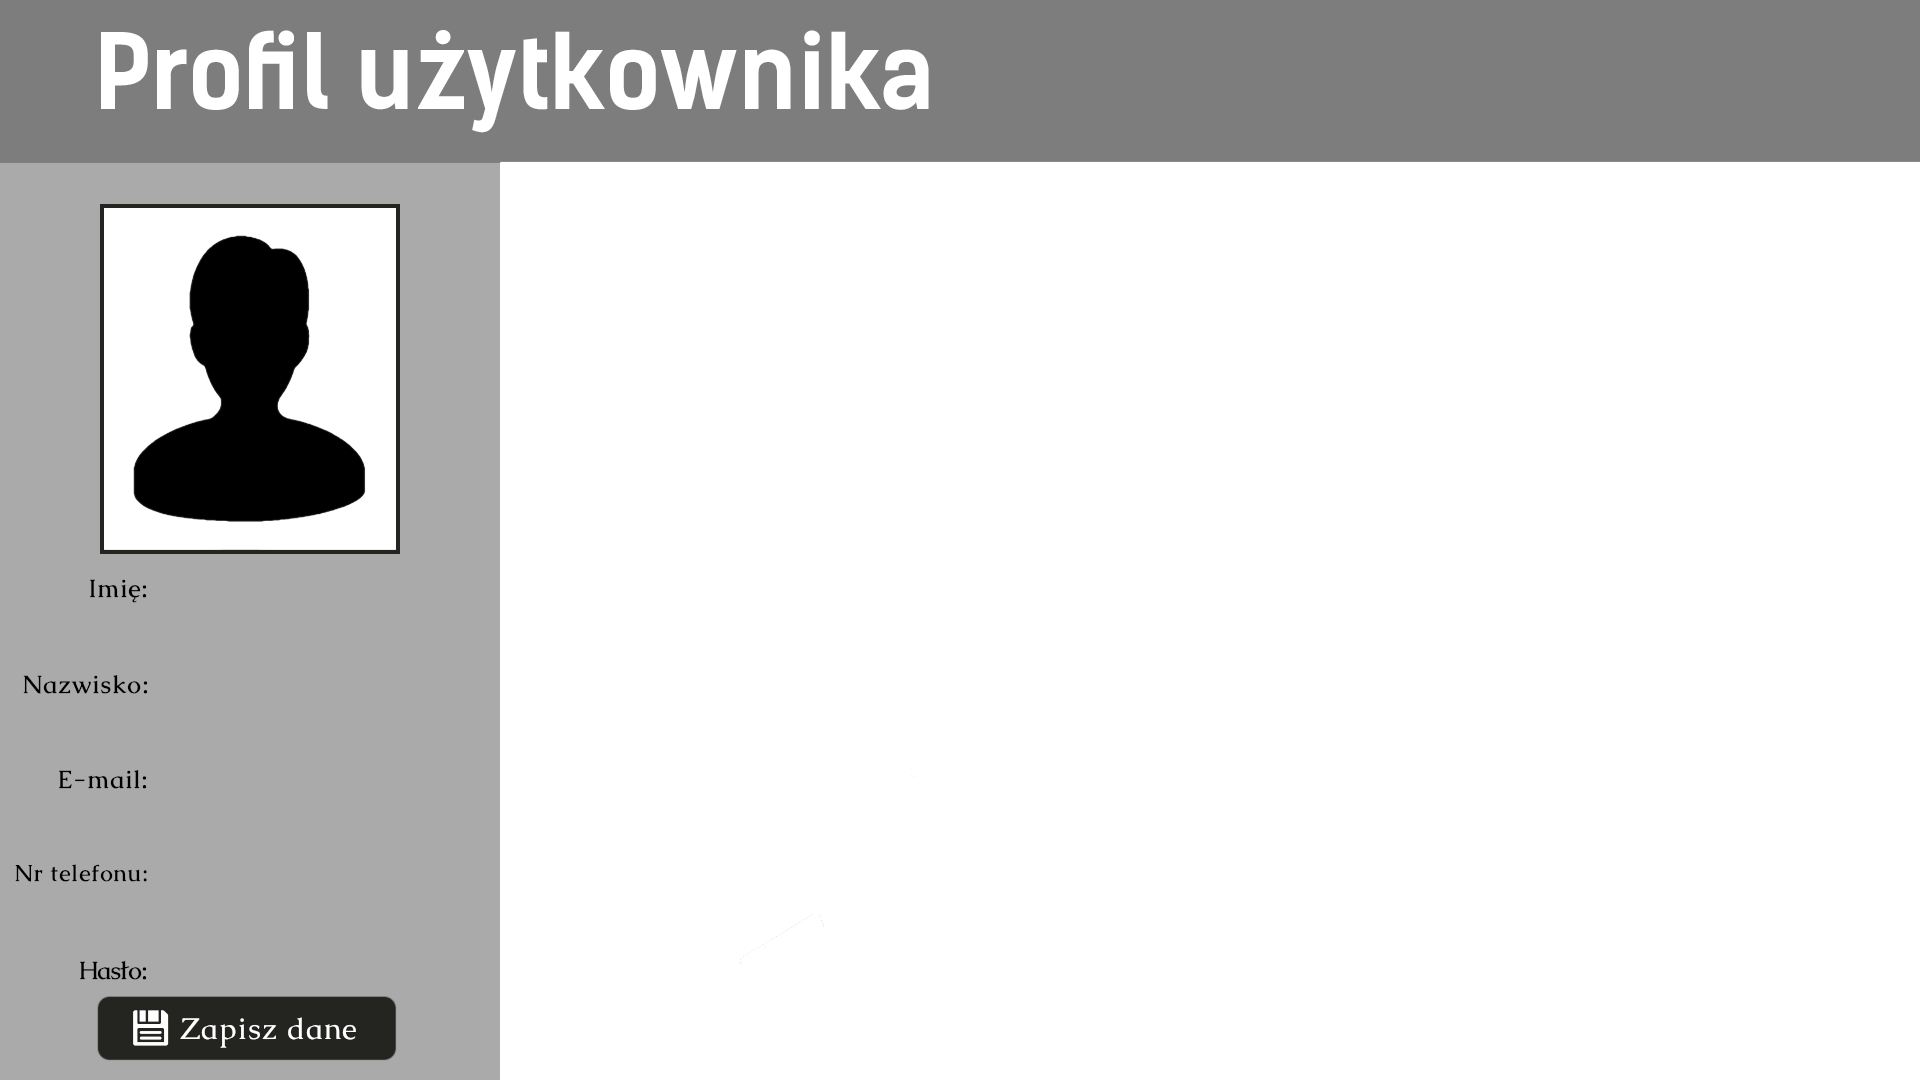
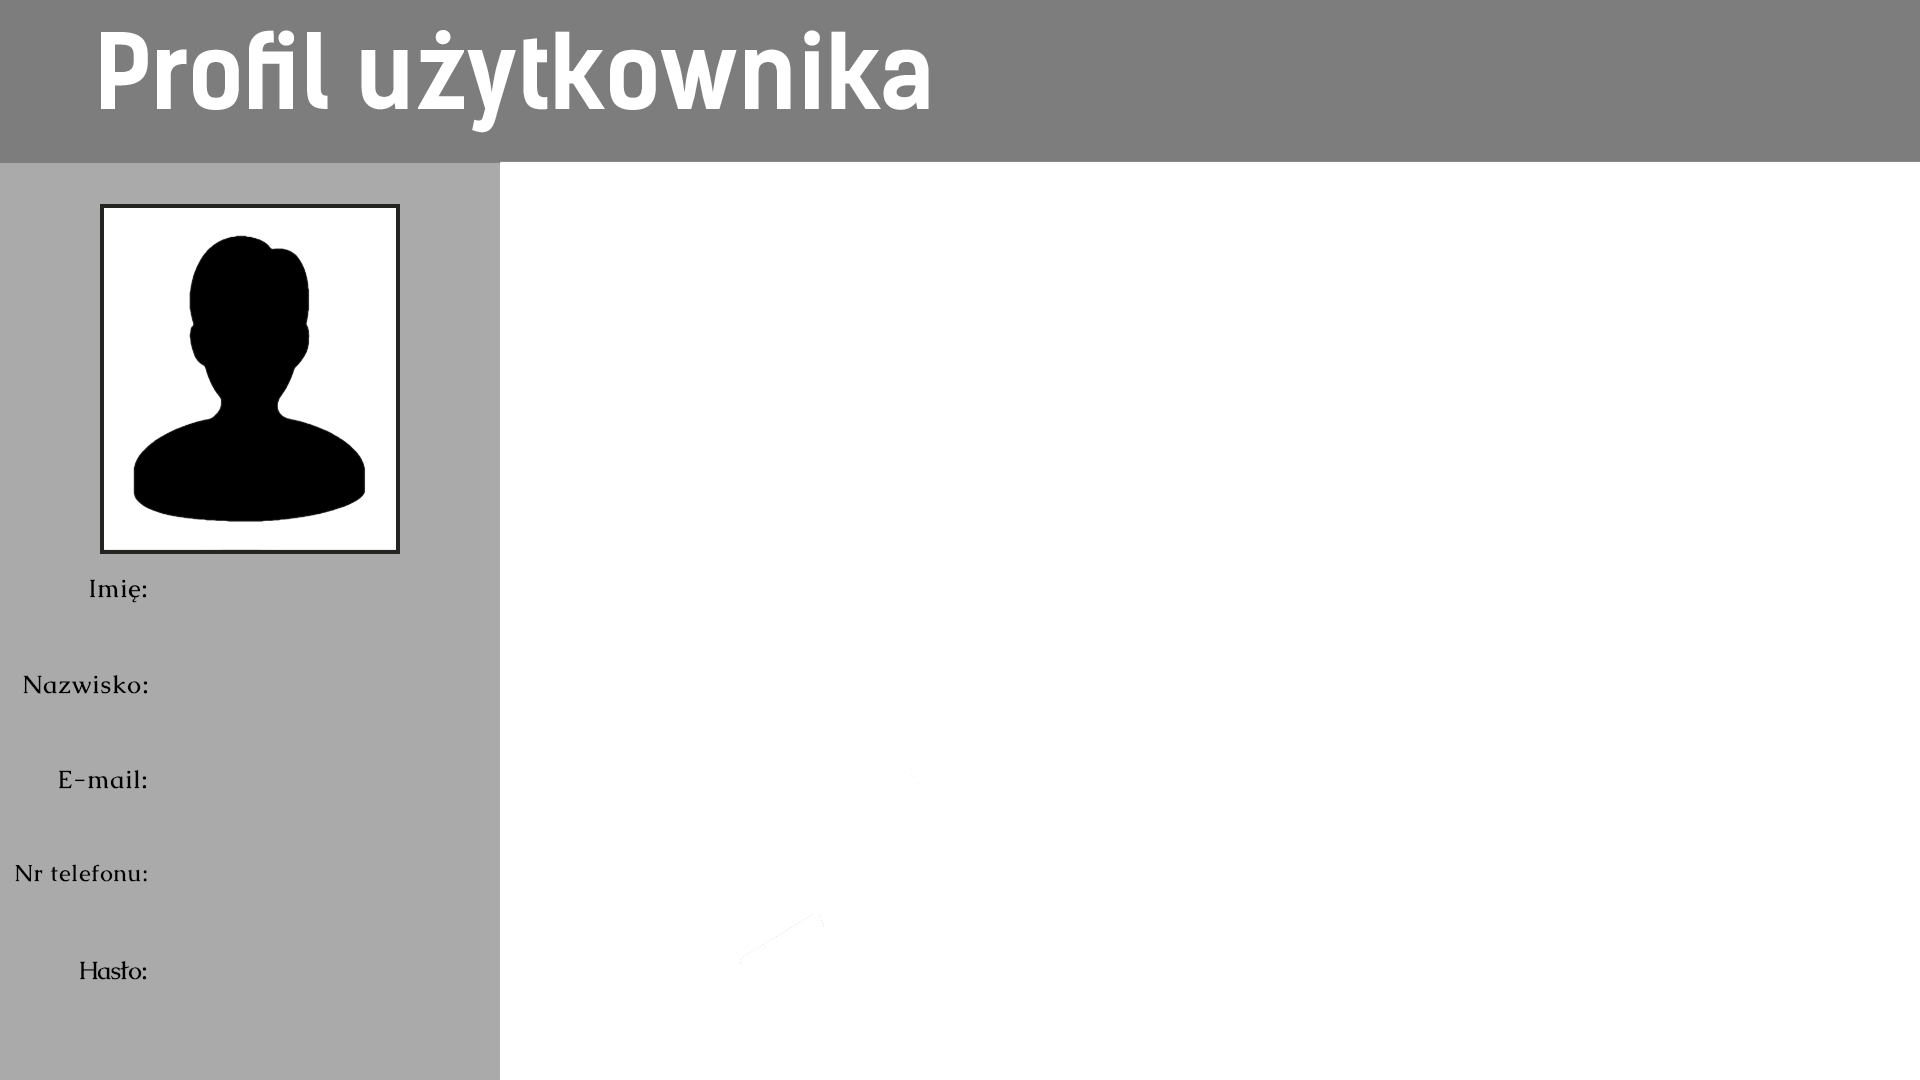
Update przycisków

Changed region(s): [[0.0312, 0.9167, 0.2188, 1.0]]

diff --git a/src/com/okno/OknoUzytkownika.java b/src/com/okno/OknoUzytkownika.java
@@ -43,7 +43,7 @@ import java.util.regex.Pattern;
 public class OknoUzytkownika extends JPanel implements ActionListener, MouseListener
 {
 
-    private JLabel bEdytujDane, bWyloguj, bTwojeRezerwacje, bDostepneFilmy, bZapiszDane,bDodajSeans,bDodajFilm;;
+    private JLabel bEdytujDane, bWyloguj, bTwojeRezerwacje, bDostepneFilmy, bZapiszDane, bPowrotMini, bDodajSeans, bDodajFilm;
     private JLabel tNazwaUzytkownika, tEmailUzytkownika, tTelefonUzytkownika, tPowitanie, tNajblizszeSeanse, tBledneDane;
     private JTextField fNoweImie, fNoweNazwisko, fNowyEmailUzytkownika, fNowyTelefonUzytkownika;
     private JPasswordField fNoweHaslo;
@@ -171,11 +171,18 @@ public class OknoUzytkownika extends JPanel implements ActionListener, MouseList
         add(fNoweHaslo);
 
         bZapiszDane = new JLabel(new ImageIcon("Coś tam\\Nowe Grafiki\\zapisz_dane.png"));
-        bZapiszDane.setBounds(97,995,300,67);
+        bZapiszDane.setBounds(255,1005,235,50);
         bZapiszDane.setBorder(null);
         bZapiszDane.setVisible(false);
         bZapiszDane.addMouseListener(this);
         add(bZapiszDane);
+
+        bPowrotMini = new JLabel(new ImageIcon("Coś tam\\Nowe Grafiki\\powrot_mini.png"));
+        bPowrotMini.setBounds(10,1005,235,50);
+        bPowrotMini.setBorder(null);
+        bPowrotMini.setVisible(false);
+        bPowrotMini.addMouseListener(this);
+        add(bPowrotMini);
 
         tBledneDane = new JLabel("Bledne dane");
         tBledneDane.setBounds(50,950,100,20);
@@ -230,6 +237,7 @@ public class OknoUzytkownika extends JPanel implements ActionListener, MouseList
                 fNowyTelefonUzytkownika.setVisible(true);
                 fNoweHaslo.setVisible(true);
                 bZapiszDane.setVisible(true);
+                bPowrotMini.setVisible(true);
 
             }else if( p == bZapiszDane){
                 try {
@@ -266,6 +274,7 @@ public class OknoUzytkownika extends JPanel implements ActionListener, MouseList
                     fNowyTelefonUzytkownika.setVisible(false);
                     fNoweHaslo.setVisible(false);
                     bZapiszDane.setVisible(false);
+                    bPowrotMini.setVisible(false);
 
                     background.setIcon(new ImageIcon("Coś tam\\Nowe Grafiki\\Profil_uzytkownika.png"));
                 }catch(Exception err){
@@ -276,6 +285,21 @@ public class OknoUzytkownika extends JPanel implements ActionListener, MouseList
                 Main.setJPanel(Window.DodajFilm,uzytkownik);
             }else if(p==bDodajSeans){
                 Main.setJPanel(Window.DodajSeans,uzytkownik);
+            }else if(p==bPowrotMini){
+                background.setIcon(new ImageIcon("Coś tam\\Nowe Grafiki\\Profil_uzytkownika.png"));
+
+                bEdytujDane.setVisible(true);
+                tNazwaUzytkownika.setVisible(true);
+                tEmailUzytkownika.setVisible(true);
+                tTelefonUzytkownika.setVisible(true);
+
+                fNoweImie.setVisible(false);
+                fNoweNazwisko.setVisible(false);
+                fNowyEmailUzytkownika.setVisible(false);
+                fNowyTelefonUzytkownika.setVisible(false);
+                fNoweHaslo.setVisible(false);
+                bZapiszDane.setVisible(false);
+                bPowrotMini.setVisible(false);
             }
 
     }
